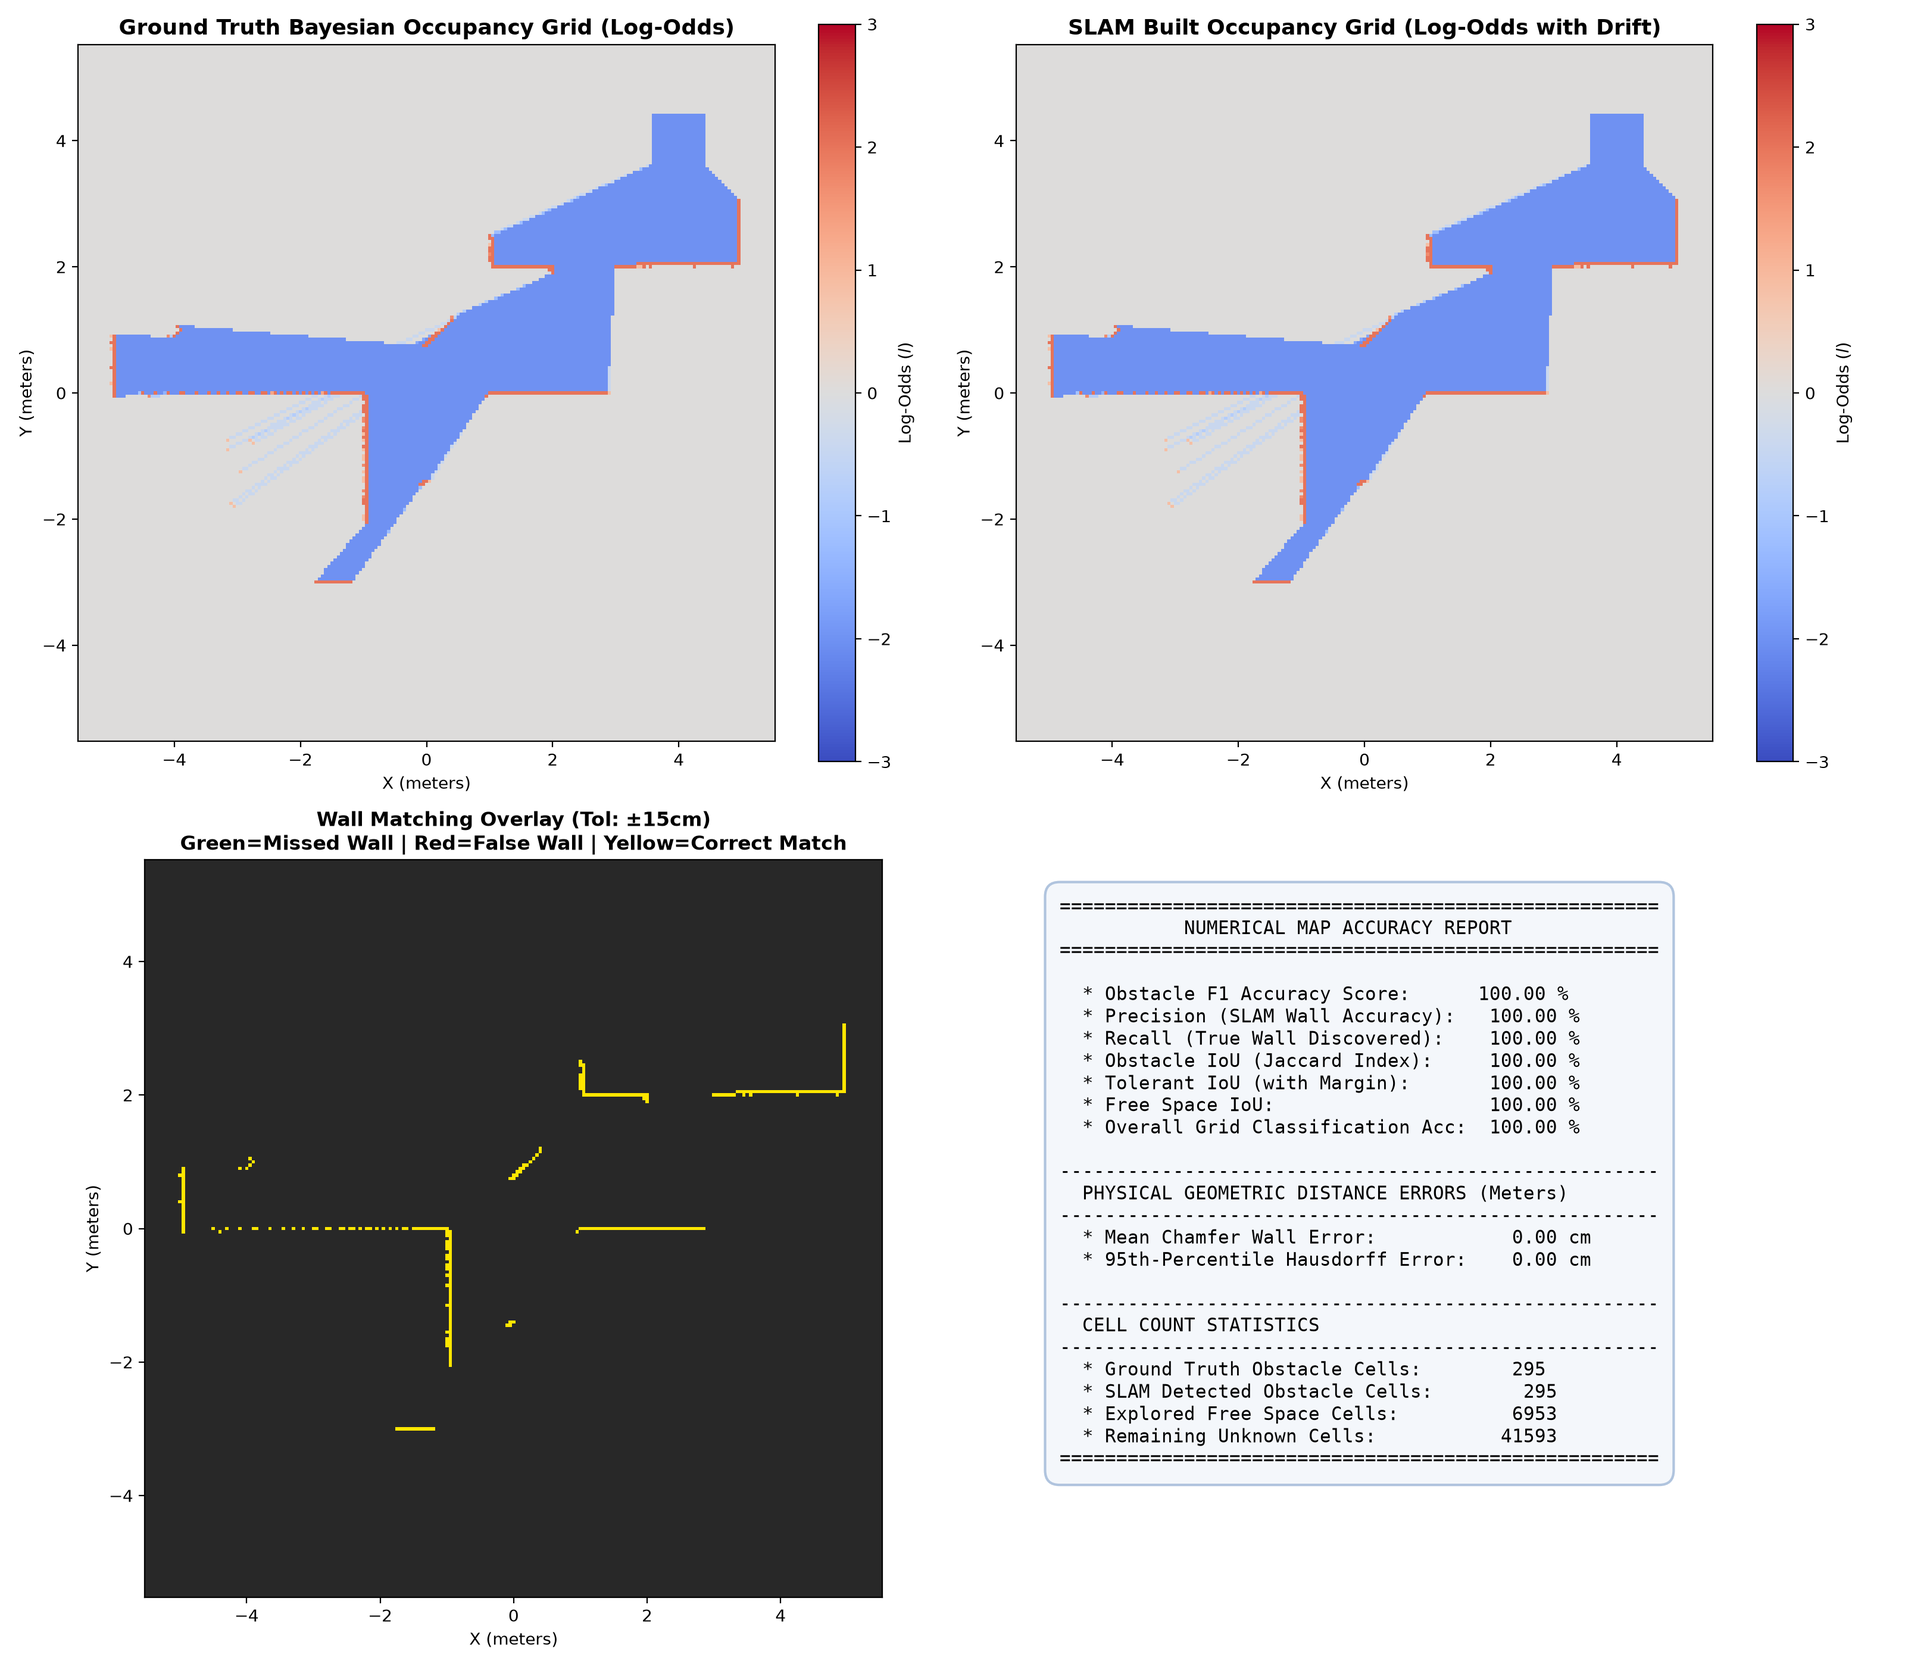
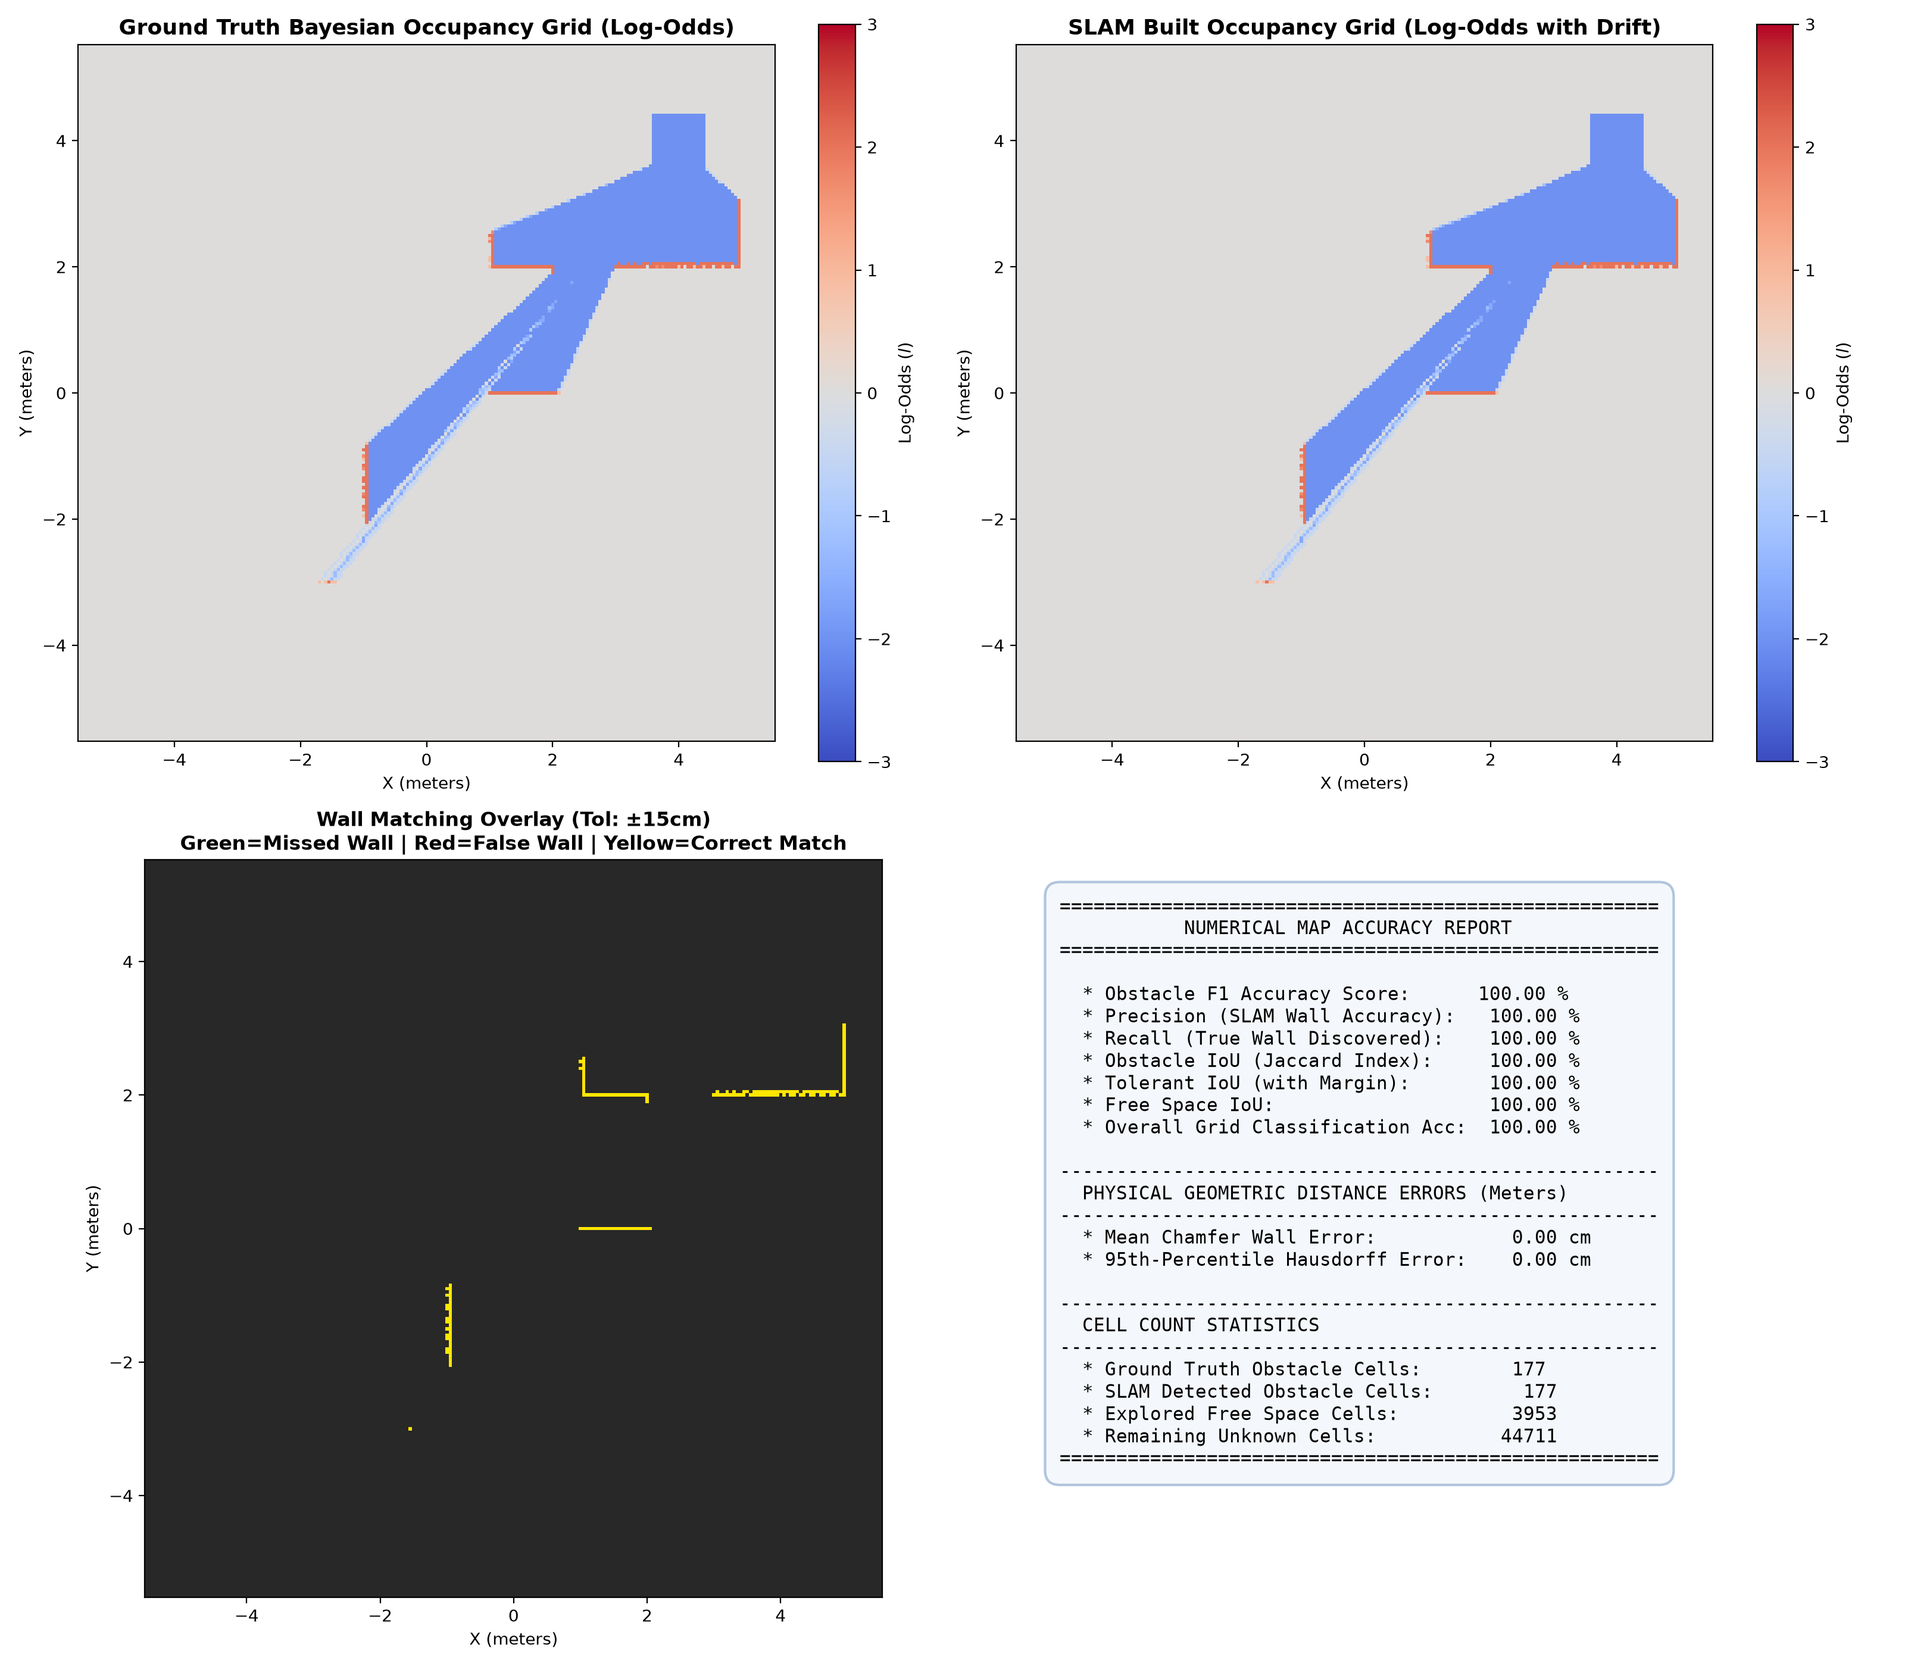
fix(navigation): prevent doorway deadlock, eliminate false doorways & ghost lines, add real-time agent telemetry

Changed region(s): [[0.0625, 0.1554, 0.3438, 0.3729], [0.5312, 0.1554, 0.8125, 0.3729], [0.7812, 0.8079, 0.8125, 0.8389]]

diff --git a/agents/frontier_agent.py b/agents/frontier_agent.py
@@ -43,11 +43,14 @@ class FrontierAgent(BaseAgent):
             tgy = event_msg.details.get("target_gy")
             if tgx is not None and tgy is not None:
                 self.blacklist_frontiers.add((tgx, tgy))
-                if self.committed_target == (tgx, tgy):
-                    self.committed_target = None
-                    self.committed_doorway = None
-                if len(self.blacklist_frontiers) > 30:
-                    self.blacklist_frontiers.clear()
+            # Always drop stuck or unreachable targets to prevent deadlocks
+            if self.committed_target is not None:
+                self.blacklist_frontiers.add(self.committed_target)
+                self.committed_target = None
+                self.committed_doorway = None
+                print("  [FRONTIER] Cleared stalled target from watchdog alert. Re-evaluating alternatives.")
+            if len(self.blacklist_frontiers) > 30:
+                self.blacklist_frontiers.clear()
         elif event_msg.event_type == "ROOM_COMPLETED":
             self.committed_target = None
             self.committed_doorway = None
@@ -130,11 +133,31 @@ class FrontierAgent(BaseAgent):
         elif self.active_room_id <= 0:
             self.active_room_id = 1
 
-        # If currently transiting a doorway, maintain commitment until penetrating into the new room
+        # If currently transiting a doorway, maintain commitment until penetrating into the new room (with timeout watchdog)
         if self.state == "INTER_ROOM_TRANSIT" and self.committed_target is not None:
             cwx, cwy = self.grid.grid_to_world(self.committed_target[0], self.committed_target[1])
-            if math.hypot(cwx - rx, cwy - ry) >= 0.40:
-                return None  # Unconditionally hold doorway transit trajectory
+            dist_to_transit = math.hypot(cwx - rx, cwy - ry)
+            if (current_time - self.commitment_time) > 10.0:
+                print(f"  [FRONTIER] Doorway transit timed out (>10s) -> Aborting transit and falling back to open exploration.")
+                if self.committed_doorway is not None:
+                    self.visited_doorways.add(self.committed_doorway)
+                    self.committed_doorway = None
+                self.committed_target = None
+                self.state = "GLOBAL_EXPLORATION"
+            elif dist_to_transit >= 0.40:
+                # Keep active target published so PlanningAgent continuously drives LocomotionAgent without deadlock
+                target_msg = FrontierTargetMsg(
+                    timestamp=current_time,
+                    target_gx=self.committed_target[0],
+                    target_gy=self.committed_target[1],
+                    target_wx=cwx,
+                    target_wy=cwy,
+                    room_id=-1,
+                    area=50,
+                    is_doorway=True
+                )
+                self.bus.publish("frontier/target", target_msg)
+                return target_msg
 
         all_frontiers = self.grid.detect_frontiers()
         if not all_frontiers:
@@ -193,6 +216,20 @@ class FrontierAgent(BaseAgent):
             else:
                 other_frontiers.append((f, dist))
 
+        # Collect valid forward doorways (connecting to UNEXPLORED rooms only)
+        doorways = self.latest_grid_msg.doorways if self.latest_grid_msg else []
+        valid_doorways = []
+        for d in doorways:
+            if d in self.visited_doorways:
+                continue
+            dgx, dgy = self.grid.world_to_grid(d[0], d[1])
+            d_room = self._get_room_at(dgx, dgy, room_labels)
+            if d_room in self.explored_rooms:
+                continue
+            if not self.grid.is_free(dgx, dgy):
+                continue
+            valid_doorways.append(d)
+
         # Decision Logic:
         # Case A: Current room still has unexplored frontiers -> Clear it!
         if room_frontiers and self.active_room_id not in self.explored_rooms:
@@ -217,14 +254,11 @@ class FrontierAgent(BaseAgent):
             self.bus.publish("frontier/target", target_msg)
             return target_msg
 
-        # Case B: Current room is CLEARED! Transition to next room via Doorway
-        doorways = self.latest_grid_msg.doorways if self.latest_grid_msg else []
-        unvisited_doorways = [d for d in doorways if d not in self.visited_doorways]
-
-        if unvisited_doorways:
+        # Case B: Current room is CLEARED! Transition to next room via forward Doorway
+        if valid_doorways:
             self.state = "INTER_ROOM_TRANSIT"
-            unvisited_doorways.sort(key=lambda d: math.hypot(d[0] - rx, d[1] - ry))
-            dw_target = unvisited_doorways[0]
+            valid_doorways.sort(key=lambda d: math.hypot(d[0] - rx, d[1] - ry))
+            dw_target = valid_doorways[0]
             self.committed_doorway = dw_target
             
             if self.active_room_id > 0 and self.active_room_id not in self.explored_rooms:
@@ -248,6 +282,10 @@ class FrontierAgent(BaseAgent):
                 target_wx, target_wy = dw_target[0], dw_target[1]
 
             dgx, dgy = self.grid.world_to_grid(target_wx, target_wy)
+            if not self.grid.is_free(dgx, dgy):
+                dgx, dgy = self.grid.world_to_grid(dw_target[0], dw_target[1])
+                target_wx, target_wy = dw_target[0], dw_target[1]
+
             self.committed_target = (dgx, dgy)
             self.commitment_time = current_time
             print(f"  [FRONTIER] [INTER_ROOM_TRANSIT] Heading to Doorway ({dw_target[0]:.2f}, {dw_target[1]:.2f}) -> Target inside next room: ({target_wx:.2f}, {target_wy:.2f})")
@@ -324,6 +362,9 @@ class FrontierAgent(BaseAgent):
 
     def step(self, current_time: float) -> None:
         try:
-            self.select_frontier(current_time)
+            target = self.select_frontier(current_time)
+            if target is None and (current_time - getattr(self, 'last_log_time', 0.0)) > 3.0:
+                self.last_log_time = current_time
+                print(f"  [FRONTIER] State: [{self.state}] | Active: Room {self.active_room_id} | Explored Rooms: {list(self.explored_rooms)}")
         except Exception as e:
             self.handle_error(e)

diff --git a/agents/mapping_agent.py b/agents/mapping_agent.py
@@ -44,7 +44,8 @@ class MappingAgent(BaseAgent):
         """
         free_mask = (self.grid.grid_log_odds <= self.grid.thresh_free).astype(np.uint8) * 255
         
-        if np.sum(free_mask) < 200:
+        num_free_cells = int(np.count_nonzero(free_mask))
+        if num_free_cells < 400:
             return np.zeros_like(free_mask, dtype=np.int32), []
 
         # 1. Distance transform on free space
@@ -124,13 +125,23 @@ class MappingAgent(BaseAgent):
             interface = (free_room_map > 0) & (shifted > 0) & (free_room_map != shifted)
             door_mask |= interface.astype(np.uint8)
 
+        # Eliminate boundary roll wrap-around artifacts
+        door_mask[0:3, :] = 0
+        door_mask[-3:, :] = 0
+        door_mask[:, 0:3] = 0
+        door_mask[:, -3:] = 0
+
+        # Require clearance: doorway bottleneck must be in safely navigable free space (>= 15cm from walls)
+        door_mask &= (dist_transform >= 3).astype(np.uint8)
+
         num_d, d_labels, d_stats, d_cents = cv2.connectedComponentsWithStats(door_mask)
         doorway_points = []
         for i in range(1, num_d):
-            if d_stats[i, cv2.CC_STAT_AREA] >= 2:
+            if d_stats[i, cv2.CC_STAT_AREA] >= 3:
                 dgx, dgy = int(round(d_cents[i][0])), int(round(d_cents[i][1]))
-                wx, wy = self.grid.grid_to_world(dgx, dgy)
-                doorway_points.append((wx, wy))
+                if self.grid.is_free(dgx, dgy):
+                    wx, wy = self.grid.grid_to_world(dgx, dgy)
+                    doorway_points.append((wx, wy))
 
         self.room_labels = voronoi_map
         self.doorways = doorway_points
@@ -166,5 +177,11 @@ class MappingAgent(BaseAgent):
                 room_labels=self.room_labels,
                 doorways=self.doorways
             ))
+
+            if (current_time - getattr(self, 'last_log_time', 0.0)) > 3.0:
+                self.last_log_time = current_time
+                n_rooms = len(self.room_centroids) if self.room_centroids else 1
+                n_dws = len(self.doorways)
+                print(f"  [MAPPING] Grid: {free:,d} free ({explored_pct:.1f}% explored) | {n_rooms} Rooms segmented | {n_dws} Doorways")
         except Exception as e:
             self.handle_error(e)

diff --git a/main_agentic.py b/main_agentic.py
@@ -64,6 +64,12 @@ def cleanup_sim_drawings(sim):
                 sim.removeDrawingObject(h)
             except Exception:
                 pass
+    # Sweep CoppeliaSim drawing handles from 0 to 128 to remove any leftover ghost lines from prior runs
+    for h_cand in range(128):
+        try:
+            sim.removeDrawingObject(h_cand)
+        except Exception:
+            pass
     traveled_drawing_handle = -1
     path_drawing_handle = -1
 
@@ -71,17 +77,11 @@ def cleanup_sim_drawings(sim):
 def init_sim_drawings(sim):
     global traveled_drawing_handle, path_drawing_handle
     cleanup_sim_drawings(sim)
-    try:
-        traveled_drawing_handle = sim.addDrawingObject(
-            sim.drawing_lines, 4, 0, -1, 99999, [0.0, 0.9, 0.2]  # Green 4px line for trail
-        )
-        sim.setStringNamedParam('quadruped_trail_handle', str(traveled_drawing_handle))
-    except Exception as e:
-        print(f"  [WARN] Failed to create traveled path drawing object: {e}")
-
+    # The trajectory is rendered in real time on the 2D HUD dashboard with zero clutter.
+    # We only draw the active, dynamically updating planned path waypoints in the 3D scene.
     try:
         path_drawing_handle = sim.addDrawingObject(
-            sim.drawing_lines, 3, 0, -1, 9999, [0.0, 1.0, 0.3]  # Bright green 3px line for planned path
+            sim.drawing_lines, 3, 0, -1, 9999, [0.1, 0.65, 1.0]  # Crisp cyan path
         )
         sim.setStringNamedParam('quadruped_path_handle', str(path_drawing_handle))
     except Exception as e:
@@ -89,12 +89,8 @@ def init_sim_drawings(sim):
 
 
 def update_traveled_trail(sim, p1, p2):
-    global traveled_drawing_handle
-    if traveled_drawing_handle != -1:
-        try:
-            sim.addDrawingObjectItem(traveled_drawing_handle, [p1[0], p1[1], 0.06, p2[0], p2[1], 0.06])
-        except Exception:
-            pass
+    # Deprecated to prevent floor clutter and ghost lines in CoppeliaSim across runs
+    pass
 
 
 def draw_planned_path_in_sim(sim, waypoints):

diff --git a/agents/supervisor_agent.py b/agents/supervisor_agent.py
@@ -1,4 +1,4 @@
-"""Supervisor Agent: System watchdog, Spatial Knowledge Graph custodian, and Episodic Memory manager."""
+"""Supervisor Agent: System watchdog, Spatial Knowledge Graph custodian, and Episodic Memory manager."""
 from typing import Optional, Dict, Any
 from .base import BaseAgent
 from .bus import MessageBus, MissionEventMsg, PoseMsg, GridMapMsg, PathMsg
@@ -70,6 +70,12 @@ class SupervisorAgent(BaseAgent):
                         description=f"Topological doorway bottleneck identified at ({dw[0]:.2f}, {dw[1]:.2f})",
                         coordinates={"x": dw[0], "y": dw[1]}
                     )
+
+        if (current_time - getattr(self, 'last_log_time', 0.0)) > 3.0:
+            self.last_log_time = current_time
+            n_events = len(self.episodic_memory.events)
+            n_rooms = len(self.knowledge_graph.rooms)
+            print(f"  [SUPERVISOR] Knowledge Graph: {n_rooms} rooms | Episodic Timeline: {n_events} key events")
 
     def export_mission_report(self) -> Dict[str, Any]:
         return {

diff --git a/agents/perception_agent.py b/agents/perception_agent.py
@@ -1,4 +1,4 @@
-"""Perception Agent: RGB-D acquisition, pinhole 3D back-projection, and spatial gating."""
+"""Perception Agent: RGB-D acquisition, pinhole 3D back-projection, and spatial gating."""
 import numpy as np
 from typing import Optional, Tuple
 from .base import BaseAgent
@@ -59,6 +59,11 @@ class PerceptionAgent(BaseAgent):
             points_2d=sampled_2d,
             world_points_3d=pts_w
         ))
+
+        if (timestamp - getattr(self, 'last_log_time', 0.0)) > 3.0:
+            self.last_log_time = timestamp
+            min_d = float(np.min(dist_w)) if len(pts_w) > 0 else 99.0
+            print(f"  [PERCEPTION] RGB-D: {len(world_points):,d} pts -> Filtered Scan: {len(sampled_2d)} pts | Closest obstacle: {min_d:.2f}m")
 
     def step(self, current_time: float) -> None:
         if self.sim is None or self.depth_cam is None:

diff --git a/agents/slam_agent.py b/agents/slam_agent.py
@@ -77,5 +77,11 @@ class SLAMAgent(BaseAgent):
                 yaw=active_yaw,
                 is_ground_truth=self.use_ground_truth_nav
             ))
+
+            if (current_time - getattr(self, 'last_log_time', 0.0)) > 3.0:
+                self.last_log_time = current_time
+                n_kfs = len(self.pose_estimator.loop_manager.keyframes)
+                rmse = float(getattr(slam_pose, 'rmse', 0.0))
+                print(f"  [SLAM] 2D Scan Matching: Pose ({slam_pose.x:.2f}, {slam_pose.y:.2f}, {math.degrees(slam_pose.yaw):.1f}°) | Keyframes: {n_kfs} | ICP Residual: {rmse:.3f}m")
         except Exception as e:
             self.handle_error(e)

diff --git a/agents/locomotion_agent.py b/agents/locomotion_agent.py
@@ -183,3 +183,8 @@ class LocomotionAgent(BaseAgent):
                 speed=0.0,
                 state_str="IDLE"
             ))
+
+        if (current_time - getattr(self, 'last_status_log_time', 0.0)) > 2.5:
+            self.last_status_log_time = current_time
+            n_wps = len(self.waypoints) - self.wp_idx if self.waypoints else 0
+            print(f"  [LOCOMOTION] State: [{self.state_str}] | Speed: {self.speed:.2f} | Remaining Waypoints: {n_wps}")

diff --git a/accuracy_results/mission_timeline.md b/accuracy_results/mission_timeline.md
@@ -3,9 +3,7 @@
 | Sim Time | Event Type | Description | Location |
 | :--- | :--- | :--- | :--- |
 | **0.5s** | ROOM_ENTERED | ROOM_ENTERED: {'room_id': 1} | (4.00, 4.00) |
-| **1.0s** | ROOM_ENTERED | ROOM_ENTERED: {'room_id': 2} | (4.01, 3.96) |
+| **1.0s** | ROOM_ENTERED | ROOM_ENTERED: {'room_id': 2} | (4.00, 3.98) |
 | **1.0s** | DOORWAY_DETECTED | Topological doorway bottleneck identified at (4.10, 3.60) | (4.10, 3.60) |
-| **4.0s** | DOORWAY_DETECTED | Topological doorway bottleneck identified at (1.90, 1.60) | (1.90, 1.60) |
-| **7.0s** | DOORWAY_DETECTED | Topological doorway bottleneck identified at (1.95, 1.20) | (1.95, 1.20) |
-| **13.0s** | DOORWAY_DETECTED | Topological doorway bottleneck identified at (1.50, 1.20) | (1.50, 1.20) |
-| **33.0s** | ROOM_ENTERED | ROOM_ENTERED: {'room_id': 3} | (2.53, 1.90) |
+| **15.0s** | DOORWAY_DETECTED | Topological doorway bottleneck identified at (1.90, 1.60) | (1.90, 1.60) |
+| **16.0s** | DOORWAY_DETECTED | Topological doorway bottleneck identified at (1.95, 1.60) | (1.95, 1.60) |
